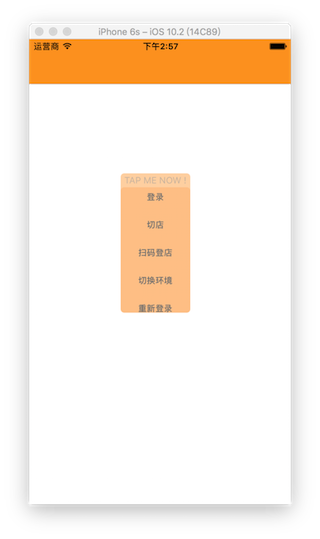
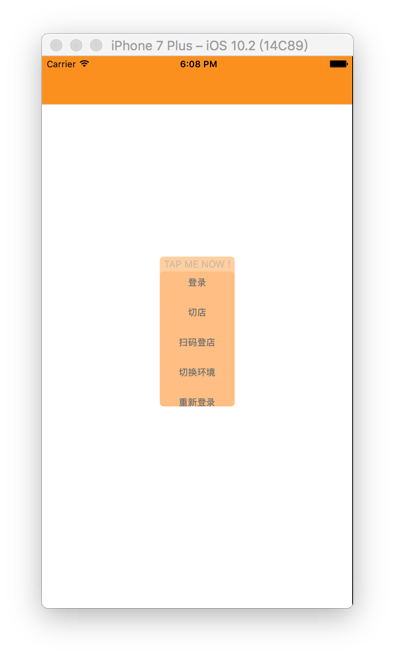
Site updated at 2017-04-30 10:09:49 UTC

Changed region(s): [[0.0938, 0.0297, 0.9062, 0.9499], [0.375, 0.2968, 0.5938, 0.6234]]

diff --git a/blog/2017-04-28-gei-apptian-jia-xuan-fu-zhu-shou/index.html b/blog/2017-04-28-gei-apptian-jia-xuan-fu-zhu-shou/index.html
@@ -211,7 +211,7 @@
 </span></code></pre></td></tr></table></div></figure>
 
 
-<p>FLEX 工具栏差不多就是以上诉方式实现的，接下来就可以着手开发自己的悬浮助手了。</p>
+<p>FLEX 工具栏差不多就是以上述方式实现的，接下来就可以着手开发自己的悬浮助手了。</p>
 
 <h2>悬浮助手</h2>
 
@@ -243,7 +243,7 @@
 <p>目前为止，这个助手具备以下功能：</p>
 
 <ul>
-<li>单击，出现功能入口，选择对应功能</li>
+<li>单击，出现上方图片的功能入口，可选择对应功能</li>
 <li>双击，登录入口，输入手机、密码，点击登录</li>
 <li>三击，出现切店入口，点击黄色/绿色条目，切换至对应店铺</li>
 <li>四击，切换网络环境</li>
